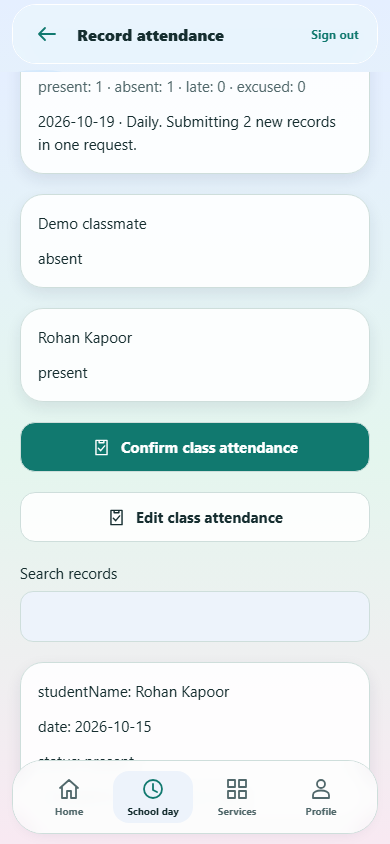
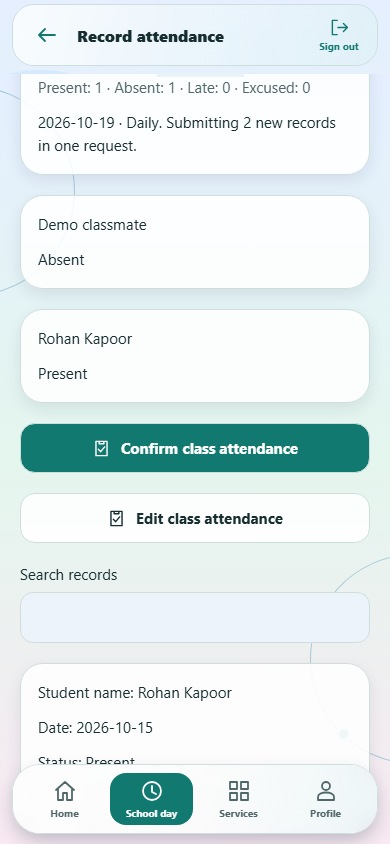
Standardize mobile labels, capitalization and punctuation [skip render]

diff --git a/apps/mobile/src/components/attendance-register.tsx b/apps/mobile/src/components/attendance-register.tsx
@@ -1,3 +1,4 @@
+import { sentenceLabel } from "../core/text";
 import React, { useRef, useState } from "react";
 import { Pressable, Text, View } from "react-native";
 import { useMobile } from "../provider";
@@ -122,7 +123,8 @@ function AttendanceSheet({
       <Card>
         <SavedMotion>
           <Copy>
-            Class attendance saved for {date}: {pending.length} students.
+            Class attendance saved for {date}: {pending.length}{" "}
+            {pending.length === 1 ? "student" : "students"}.
           </Copy>
         </SavedMotion>
         <Copy muted>
@@ -138,14 +140,15 @@ function AttendanceSheet({
           {review ? "Review class attendance" : "Mark class attendance"}
         </Copy>
         <Copy>
-          {roster.length} students · {unmarked} unmarked ·{" "}
-          {roster.length - pending.length} already recorded
+          {roster.length} {roster.length === 1 ? "student" : "students"} ·{" "}
+          {unmarked} unmarked · {roster.length - pending.length} already
+          recorded
         </Copy>
         <Copy muted>
           {attendanceStatuses
             .map(
               (s) =>
-                `${s}: ${roster.filter((r) => statuses[r.id] === s).length}`,
+                `${sentenceLabel(s)}: ${roster.filter((r) => statuses[r.id] === s).length}`,
             )
             .join(" · ")}
         </Copy>
@@ -194,16 +197,16 @@ function AttendanceSheet({
           <Copy>{r.name}</Copy>
           {r.locked || review ? (
             <Copy>
-              {statuses[r.id] || "Unmarked"}
+              {sentenceLabel(statuses[r.id] || "Unmarked")}
               {r.locked ? " · Already recorded" : ""}
             </Copy>
           ) : (
             <View style={{ flexDirection: "row", flexWrap: "wrap", gap: 8 }}>
               {attendanceStatuses.map((status) => (
                 <Pressable
-                  key={status}
+                  key={sentenceLabel(status)}
                   accessibilityRole="radio"
-                  accessibilityLabel={`${status} for ${r.name}`}
+                  accessibilityLabel={`${sentenceLabel(status)} for ${r.name}`}
                   accessibilityState={{
                     selected: statuses[r.id] === status,
                     disabled: busy,
@@ -234,7 +237,7 @@ function AttendanceSheet({
                       fontWeight: "600",
                     }}
                   >
-                    {status}
+                    {sentenceLabel(status)}
                   </Text>
                 </Pressable>
               ))}

diff --git a/apps/mobile/src/core/text.ts b/apps/mobile/src/core/text.ts
@@ -1,0 +1,53 @@
+/** Presentation only: never normalize stored values, passwords or user-written content. */
+export function sentenceLabel(value: string): string {
+  const words = value.replace(/_+/g, " ").trim();
+  if (["upi", "pdf", "url", "html", "sms"].includes(words.toLowerCase()))
+    return words.toUpperCase();
+  return words ? words[0].toUpperCase() + words.slice(1) : "";
+}
+export function fieldLabel(key: string): string {
+  const labels: Record<string, string> = {
+    loginEmail: "Login email",
+    employeeNumber: "Employee number",
+    admissionNumber: "Admission number",
+    excludedFromAttendance: "Excluded from attendance",
+    paidOn: "Payment date",
+    readAt: "Read on",
+    createdAt: "Created on",
+    updatedAt: "Updated on",
+    submittedAt: "Submitted on",
+    requestedStatus: "Requested status",
+  };
+  return (
+    labels[key] ||
+    sentenceLabel(
+      key.replace(/([a-z0-9])([A-Z])/g, "$1 $2").toLowerCase(),
+    ).replace(/\b(id|ids|url|pdf|isbn)\b/gi, (s) =>
+      s.toLowerCase() === "ids" ? "IDs" : s.toUpperCase(),
+    )
+  );
+}
+const enums = new Set([
+  "role",
+  "status",
+  "requestedStatus",
+  "kind",
+  "type",
+  "method",
+  "condition",
+  "relationship",
+  "audience",
+  "priority",
+]);
+const booleans = new Set([
+  "active",
+  "excludedFromAttendance",
+  "passwordChangeRequired",
+  "consentVerified",
+]);
+export function recordText(key: string, raw: unknown): string {
+  if (booleans.has(key) && (raw === true || raw === "true")) return "Yes";
+  if (booleans.has(key) && (raw === false || raw === "false")) return "No";
+  const text = String(raw ?? "");
+  return enums.has(key) ? sentenceLabel(text) : text;
+}

diff --git a/apps/mobile/src/components/daily-content.tsx b/apps/mobile/src/components/daily-content.tsx
@@ -1,3 +1,4 @@
+import { sentenceLabel } from "../core/text";
 import { DateField } from "./date-field";
 import React, { useEffect, useRef, useState } from "react";
 import { Alert, Image, Linking } from "react-native";
@@ -64,7 +65,7 @@ function useAction() {
       await action();
     } catch (e) {
       if (mounted.current && scope === session.scope())
-        setError(e instanceof Error ? e.message : "Please retry");
+        setError(e instanceof Error ? e.message : "Please try again.");
     } finally {
       if (mounted.current && scope === session.scope()) setBusy(false);
     }
@@ -152,7 +153,7 @@ function Learning() {
           <Card>
             <Copy large>{r.title}</Copy>
             <Copy muted>
-              {r.type}
+              {sentenceLabel(r.type || "")}
               {r.dueDate ? ` · Due ${r.dueDate}` : ""}
             </Copy>
             <Copy>{r.description}</Copy>
@@ -214,7 +215,7 @@ function Learning() {
                         />
                       ) : null}
                       <Copy>
-                        Latest submission: {s.status}
+                        Latest submission: {sentenceLabel(s.status || "")}
                         {s.reviews
                           ?.map((v) => ` · ${v.feedback || ""}`)
                           .join("")}
@@ -257,7 +258,7 @@ function Attendance() {
               {r.date} · {r.sessionName || "Daily"}
             </Copy>
             <Copy muted>
-              {r.excludedFromAttendance ? "Holiday — excluded" : r.status}
+              {r.excludedFromAttendance ? "Holiday — excluded" : sentenceLabel(r.status || "")}
             </Copy>
           </Card>
         )}

diff --git a/apps/mobile/src/components/work-content.tsx b/apps/mobile/src/components/work-content.tsx
@@ -1,3 +1,4 @@
+import { sentenceLabel } from "../core/text";
 import { DateField } from "./date-field";
 import { localDate } from "../core/dates";
 import { AttendanceRegister } from "./attendance-register";
@@ -469,7 +470,7 @@ export function WorkContent({ tab }: { tab: string }) {
         />
         {exam ? (
           <>
-            <Copy>Exam status: {value(exam, "status")}</Copy>
+            <Copy>Exam status: {sentenceLabel(value(exam, "status"))}</Copy>
             <Pick
               label="Assigned subject"
               options={named(subs)}
@@ -549,7 +550,7 @@ export function WorkContent({ tab }: { tab: string }) {
               label: "Attendance record",
               choices: list(w.attendance).map((r) => ({
                 id: r.id,
-                name: `${users.find((u) => u.id === r.studentId)?.name} · ${r.date} · ${r.status}`,
+                name: `${users.find((u) => u.id === r.studentId)?.name} · ${r.date} · ${sentenceLabel(value(r, "status"))}`,
               })),
             },
             {
@@ -647,7 +648,7 @@ export function WorkContent({ tab }: { tab: string }) {
                 )
                 .map((r) => ({
                   id: r.id,
-                  name: `${r.employeeName} · ${r.startDate} · ${r.status}`,
+                  name: `${r.employeeName} · ${r.startDate} · ${sentenceLabel(value(r, "status"))}`,
                 })),
             },
             {

diff --git a/apps/mobile/src/app/profile.tsx b/apps/mobile/src/app/profile.tsx
@@ -1,3 +1,4 @@
+import { sentenceLabel, fieldLabel, recordText } from "../core/text";
 import React from "react";
 import { Image, ScrollView, View } from "react-native";
 import { Redirect, router } from "expo-router";
@@ -45,13 +46,13 @@ export default function Profile() {
         </View>
         <Copy large>{user.name}</Copy>
         <Copy>{user.email}</Copy>
-        <Copy muted>Role: {user.role}</Copy>
+        <Copy muted>Role: {sentenceLabel(user.role)}</Copy>
         <Copy muted>{state.workspace?.school.name || "Platform account"}</Copy>
         {current &&
           ["admissionNumber", "employeeNumber", "phone"].map((key) =>
             value(current, key) ? (
               <Copy key={key}>
-                {key}: {value(current, key)}
+                {fieldLabel(key)}: {recordText(key, current[key])}
               </Copy>
             ) : null,
           )}

diff --git a/apps/mobile/src/components/workflow.tsx b/apps/mobile/src/components/workflow.tsx
@@ -1,3 +1,4 @@
+import { fieldLabel, recordText, sentenceLabel } from "../core/text";
 import React, { useEffect, useRef, useState } from "react";
 import { View } from "react-native";
 import { randomUUID } from "expo-crypto";
@@ -22,7 +23,7 @@ export type Input = {
   initial?: string;
 };
 export const choices = (...names: string[]): Choice[] =>
-  names.map((name) => ({ id: name, name }));
+  names.map((name) => ({ id: name, name: sentenceLabel(name) }));
 export function Pick({
   label,
   options,
@@ -243,7 +244,7 @@ export function Records({ rows, fields }: { rows: Row[]; fields: string[] }) {
           {fields.map((f) =>
             value(r, f) ? (
               <Copy key={f}>
-                {f}: {value(r, f)}
+                {fieldLabel(f)}: {recordText(f, r[f])}
               </Copy>
             ) : null,
           )}

diff --git a/apps/mobile/src/app/index.tsx b/apps/mobile/src/app/index.tsx
@@ -30,7 +30,7 @@ function SignIn() {
       const response = await api.forgotPassword(email);
       setMessage(response.message);
     } catch (error) {
-      setMessage(error instanceof Error ? error.message : "Please retry");
+      setMessage(error instanceof Error ? error.message : "Please try again.");
     } finally {
       setSending(false);
     }
@@ -143,7 +143,7 @@ function PasswordChange() {
     try {
       await session.changePassword(current, password);
     } catch (e) {
-      setError(e instanceof Error ? e.message : "Please retry");
+      setError(e instanceof Error ? e.message : "Please try again.");
     } finally {
       setBusy(false);
     }

diff --git a/apps/mobile/src/app/settings.tsx b/apps/mobile/src/app/settings.tsx
@@ -1,3 +1,4 @@
+import { sentenceLabel } from "../core/text";
 import React from "react";
 import { ScrollView } from "react-native";
 import { SafeAreaView } from "react-native-safe-area-context";
@@ -32,7 +33,7 @@ export default function Settings() {
         <Card>
           <Copy>{state.identity?.user.name}</Copy>
           <Copy muted>{state.identity?.user.email}</Copy>
-          <Copy muted>{state.identity?.user.role}</Copy>
+          <Copy muted>{sentenceLabel(state.identity?.user.role || "")}</Copy>
         </Card>
         <Card>
           <Copy>Appearance</Copy>

diff --git a/apps/mobile/src/components/dashboard.tsx b/apps/mobile/src/components/dashboard.tsx
@@ -1,3 +1,4 @@
+import { sentenceLabel } from "../core/text";
 import { Icon } from "./icon";
 import React, { useState } from "react";
 import { Image, Pressable, Text, TextInput, View } from "react-native";
@@ -66,7 +67,7 @@ export function Dashboard() {
         )}
         <View style={{ flex: 1, gap: 3 }}>
           <Text style={{ fontSize: 10, color: colors.muted }}>
-            Welcome back · {identity.user.role}
+            Welcome back · {sentenceLabel(identity.user.role)}
           </Text>
           <Text
             style={{

diff --git a/apps/mobile/src/components/account-security.tsx b/apps/mobile/src/components/account-security.tsx
@@ -59,7 +59,7 @@ export function AccountSecurity() {
       const result = await session.revokeOtherSessions();
       if (!active.current || v !== version.current) return;
       setConfirm(false);
-      setMessage(`${result.count} other sessions signed out.`);
+      setMessage(`${result.count} other ${result.count === 1 ? "session" : "sessions"} signed out.`);
       await load();
     } catch (e) {
       if (active.current && v === version.current)

diff --git a/apps/mobile/src/components/change-password.tsx b/apps/mobile/src/components/change-password.tsx
@@ -45,7 +45,7 @@ export function ChangePassword() {
             .changePassword(current, next)
             .catch((e) =>
               setError(
-                e instanceof Error ? e.message : "Could not change password",
+                e instanceof Error ? e.message : "Could not change your password.",
               ),
             )
             .finally(() => {

diff --git a/docs/WORKLOG.md b/docs/WORKLOG.md
@@ -489,3 +489,10 @@ Validation: all 25 mobile tests, typecheck/lint and Android/iOS/web JS exports p
 Added original mint/violet radial-gradient aurora shapes behind screens, drifting/breathing on the same single focused phase as the faster 10-second orbit/rail. These soft-focus gradients avoid animated blur filters. Enhanced navigation blur fallback (65 intensity) and diagonal material highlights, retaining native Liquid Glass/Reduce Transparency fallbacks and backed text surfaces. Added a 520 ms eased fade/lift with a small zoom overshoot/settle. Small-screen testing caught transient horizontal overflow from the overshoot; an outer clip contains transformed content without clipping controls inside their scroll views.
 
 No new dependency, asset download, network animation traffic, API/configuration or real-data change. Existing focus/background/reduced-motion controls remain. Updated MOBILE-PLAN.md and MOBILE-WORKFLOWS.md. All 25 mobile tests, typecheck/lint and Android/iOS/web JS exports passed. Isolated browser checks verify the aurora/rail move with motion enabled, login fit, light/dark contrast, 320px overflow and existing role/attendance/security workflows. Physical material fidelity and frame-rate acceptance remain pending. No Render deployment required.
+
+
+## 17 October 2026 — Mobile capitalization and punctuation review
+
+Introduced presentation-only sentence/field/value helpers for application-owned copy. Replaced raw camelCase record/profile labels with readable words, formatted controlled status/role/resource values and generated choice labels, preserved common acronyms, and displayed selected booleans as Yes/No. Corrected fallback punctuation, singular other-session wording and attendance count grammar. Original option IDs, request bodies, record values, names, passwords, emails/URLs and user-authored content remain unchanged. Updated workflow notes and browser expectations for the visible labels; no database/API/dependency changes.
+
+Validation: 25 mobile tests passed; typecheck/lint and Android/iOS/web JS exports passed. Local browser regression checks cover updated record text, choice actions, account revocation wording, attendance and student/guardian workflows in light/dark and at small widths. No live school data mutation or Render deployment required.
